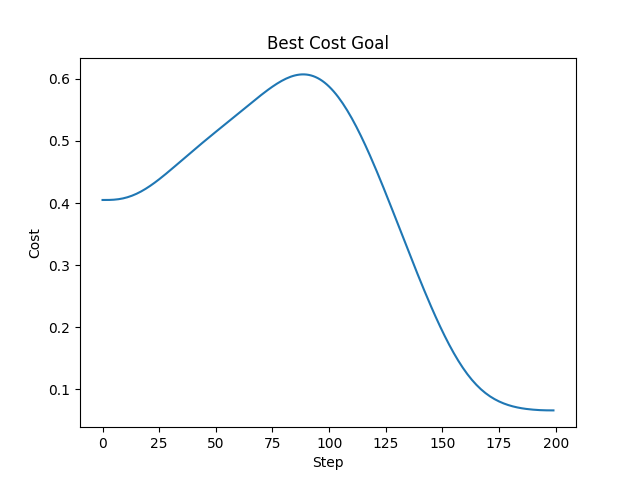
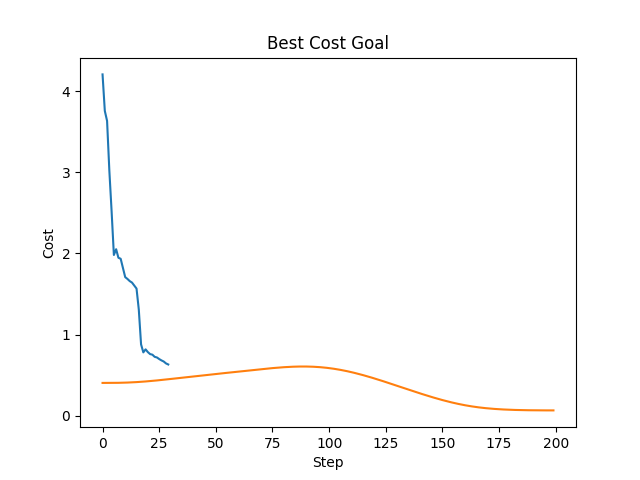
changed rotation to matrix

diff --git a/mjx_planner_v2/view_traj.py b/mjx_planner_v2/view_traj.py
@@ -6,26 +6,42 @@ import numpy as np
 import time
 import jax
 
-def quaternion_to_euler(quaternion):
-    w, x, y, z = quaternion
-    ysqr = y * y
+# def quaternion_to_euler(quaternion):
+#     w, x, y, z = quaternion
+#     ysqr = y * y
 
-    t0 = +2.0 * (w * x + y * z)
-    t1 = +1.0 - 2.0 * (x * x + ysqr)
-    X = np.rad2deg(np.arctan2(t0, t1))
+#     t0 = +2.0 * (w * x + y * z)
+#     t1 = +1.0 - 2.0 * (x * x + ysqr)
+#     X = np.rad2deg(np.arctan2(t0, t1))
 
-    t2 = +2.0 * (w * y - z * x)
+#     t2 = +2.0 * (w * y - z * x)
 
-    t2 = np.clip(t2, a_min=-1.0, a_max=1.0)
-    Y = np.rad2deg(np.arcsin(t2))
+#     t2 = np.clip(t2, a_min=-1.0, a_max=1.0)
+#     Y = np.rad2deg(np.arcsin(t2))
 
-    t3 = +2.0 * (w * z + x * y)
-    t4 = +1.0 - 2.0 * (ysqr + z * z)
-    Z = np.rad2deg(np.arctan2(t3, t4))
+#     t3 = +2.0 * (w * z + x * y)
+#     t4 = +1.0 - 2.0 * (ysqr + z * z)
+#     Z = np.rad2deg(np.arctan2(t3, t4))
 
-    euler = np.round(np.array([X,Y,Z]), 2)
+#     euler = np.round(np.array([X,Y,Z]), 2)
 
-    return euler
+#     return euler
+
+def log_map_rotation_matrix(R):
+    theta = np.arccos(np.clip((np.trace(R) - 1) / 2, -1.0, 1.0))
+    if np.isclose(theta, 0):
+        return np.zeros((3, 3))
+    elif np.isclose(theta, np.pi):
+        w = np.sqrt((np.diag(R) + 1) / 2)
+        w[np.isnan(w)] = 0
+        skew_w = np.array([
+            [0, -w[2], w[1]],
+            [w[2], 0, -w[0]],
+            [-w[1], w[0], 0]
+        ])
+        return np.pi * skew_w
+    else:
+        return (theta / (2 * np.sin(theta))) * (R - R.T)
 
 
 model_path = f"{os.path.dirname(__file__)}/ur5e_hande_mjx/scene.xml" 
@@ -37,9 +53,10 @@ init_joint_state = [1.5, -1.8, 1.75, -1.25, -1.6, 0]
 # init_joint_state = [-1.07386628, -2.21057648, -2.35288999, -1.76991373, -1.09578535, -2.99189036]
 # init_joint_state = [1.3, -0.8, 0, 0, 0, 0]
 data.qpos[:6] = init_joint_state
+# data.ctrl[:6] = init_joint_state
 
-# mjx_model = mjx.put_model(model)
-# mjx_data = mjx.put_data(model, data)
+mjx_model = mjx.put_model(model)
+mjx_data = mjx.put_data(model, data)
 
 # jit_step = jax.jit(mjx.step)
 
@@ -60,13 +77,20 @@ with viewer.launch_passive(model, data) as viewer_:
     while viewer_.is_running():
         step_start = time.time()
         data.qvel[:6] = thetadot[i]
-        # data.qpos[:6] = init_joint_state
+        # data.qpos[:6] = data.ctrl[:6]
 
         # quat_gripper = data.xquat[model.body(name="hande").id]
 
         # qpos = mjx_data.qpos.at[:6].set(data.ctrl[:6])
         # mjx_data = mjx_data.replace(qpos=qpos)
         # mjx_data = jit_step(mjx_model, mjx_data)
+
+        rot_matrix = data.xmat[model.body(name="hande").id].reshape(3,3)
+        print(mjx_data.xmat[model.body(name="hande").id].shape)
+        # rot_matrix = log_map_rotation_matrix(rot_matrix)
+        rot_matrix = np.round(rot_matrix, 1)
+        # rot_matrix = data.xmat[model.body(name="wrist_3_link_1").id].reshape(3,3).T @ rot_matrix
+        print(mjx_data.xmat[model.body(name="hande").id])
 
         mujoco.mj_step(model, data)
         viewer_.sync()
@@ -75,10 +99,10 @@ with viewer.launch_passive(model, data) as viewer_:
         if time_until_next_step > 0:
             time.sleep(time_until_next_step)    
 
-        if i < thetadot.shape[0]-1:
-            i+=1
-        else:
-            data.qvel[:6] = np.zeros(6)
-            data.qpos[:6] = init_joint_state
-            # mjx_data = mjx.put_data(model, data)
-            i=0
+        # if i < thetadot.shape[0]-1:
+        #     i+=1
+        # else:
+        #     data.qvel[:6] = np.zeros(6)
+        #     data.qpos[:6] = init_joint_state
+        #     # mjx_data = mjx.put_data(model, data)
+        #     i=0

diff --git a/mjx_planner_v2/mpc_planner.py b/mjx_planner_v2/mpc_planner.py
@@ -9,14 +9,34 @@ import os
 from mujoco import viewer
 import matplotlib.pyplot as plt
 
+# def update_plot(fig, axs, vels_plot, cost_plot, vels, costs, steps):
+#     for i, joint in enumerate(vels_plot):
+#         joint.set_data(steps, vels[i])
+
+#     cost_plot.set_data(steps, costs)
+
+#     # Set plot limits
+#     # self.ax1.set_xlim([max(0, len(self.time_stamps) - 100), len(self.time_stamps)])
+#     # self.ax2.set_xlim([max(0, len(self.time_stamps) - 100), len(self.time_stamps)])
+
+#     # Draw the updated plot
+#     axs[0].relim()
+#     axs[1].relim()
+#     axs[0].autoscale_view(True, True, True)
+#     axs[1].autoscale_view(True, True, True)
+#     fig.canvas.draw()
+#     fig.canvas.flush_events()
+
 start_time = time.time()
 cem =  cem_planner(
     num_dof=6, 
-    num_batch=100, 
+    num_batch=500, 
     num_steps=10, 
     maxiter_cem=5,
     w_pos=5,
-    num_elite=0.1,
+    w_rot=2,
+    w_col=100,
+    num_elite=0.01,
     timestep=0.04
     )
 print(f"Initialized CEM Planner: {round(time.time()-start_time, 2)}s")
@@ -33,6 +53,28 @@ print(f"Compute CEM: {round(time.time()-start_time, 2)}s")
 
 thetadot = np.array([0]*6)
 
+# plt.ion()
+# fig, axs = plt.subplots(2, 1, figsize=(12, 6))
+# axs[0].set_title('Cost')
+# axs[0].set_ylabel('Cost')
+# axs[1].set_title('Velocities')
+# axs[1].set_ylabel('Velocity')
+# axs[1].set_xlabel('Step')
+
+# vel_plot = [axs[1].plot([], [], label=f'Joint {joint}')[0] for joint in np.arange(1,7)]
+# cost_plot = axs[0].plot([], [])[0]
+
+# axs[0].legend()
+# axs[1].legend()
+
+# vels = list()
+# costs = list()
+# steps = list()
+
+# vels.append(thetadot)
+# costs.append(np.linalg.norm(data.xpos[cem.hande_id] - cem.target_pos))
+# steps.append(len(steps))
+
 with viewer.launch_passive(model, data) as viewer_:
     viewer_.cam.distance = 4
     viewer_.opt.flags[mujoco.mjtVisFlag.mjVIS_CONTACTPOINT] = True
@@ -40,16 +82,21 @@ with viewer.launch_passive(model, data) as viewer_:
     while viewer_.is_running():
         start_time = time.time()
         cost, best_cost_g, best_vels, best_traj, xi_mean = cem.compute_cem(xi_mean, data.qpos[:6], data.qvel[:6])
-        thetadot = best_vels[1]
-
+        thetadot = best_vels[1] 
+        
         data.qvel[:6] = thetadot
         mujoco.mj_step(model, data)
 
-        eef_pos = data.xpos[cem.hande_id]
-        cost_ = np.linalg.norm(eef_pos - cem.target_pos)
-        print(f'Step Time: {round(time.time() - start_time, 2)}s | Cost: {round(float(cost_), 2)}')
+        cost_g = np.linalg.norm(data.xpos[cem.hande_id] - cem.target_pos)   
+        cost_r = np.linalg.norm(data.xmat[cem.hande_id][-3:] - cem.target_rot)  
+        print(f'Step Time: {round(time.time() - start_time, 2)}s | Cost g: {round(float(cost_g), 2)} | Cost r: {round(float(cost_r), 2)}')
 
         viewer_.sync()
+
+        # vels.append(thetadot)
+        # costs.append(cost_)
+        # steps.append(len(steps))
+        # update_plot(fig, axs, vel_plot, cost_plot, np.transpose(vels), costs, steps)
 
         time_until_next_step = model.opt.timestep - (time.time() - start_time)
         if time_until_next_step > 0:

diff --git a/mjx_planner_v2/mjx_planner.py b/mjx_planner_v2/mjx_planner.py
@@ -107,7 +107,7 @@ class cem_planner():
 		object_pos[-1] += 0.3
 		self.target_pos = np.tile(object_pos, (self.num, 1))
 
-		self.target_rot = np.array([180, 0, 0])
+		self.target_rot = np.array([0, 0, -1])
 
 		self.hande_id = self.model.body(name="hande").id
 
@@ -260,11 +260,9 @@ class cem_planner():
 		qvel = mjx_data.qvel.at[:self.num_dof].set(thetadot_single)
 		mjx_data = mjx_data.replace(qvel=qvel)
 		mjx_data = self.jit_step(self.mjx_model, mjx_data)
-		theta = jnp.array(mjx_data.qpos[:self.num_dof])
-		current_position = mjx_data.xpos[self.hande_id]
-		current_rotation = self.quaternion_to_euler(mjx_data.xquat[self.hande_id])
-		eef_pos = jnp.array(current_position)
-		eef_rot = jnp.array(current_rotation)
+		theta = mjx_data.qpos[:self.num_dof]
+		eef_pos = mjx_data.xpos[self.hande_id]
+		eef_rot = mjx_data.xmat[self.hande_id][2]
 		collision = mjx_data.contact.geom[jnp.where(mjx_data.contact.dist<0, size=100, fill_value=self.fill_value)].flatten()
 
 		return mjx_data, (theta, eef_pos, eef_rot, collision)
@@ -283,10 +281,10 @@ class cem_planner():
 	@partial(jax.jit, static_argnums=(0,))
 	def compute_cost_single(self, thetadot, eef_pos, eef_rot, collision):
 		cost_g_ = jnp.linalg.norm(eef_pos - self.target_pos, axis=1)
-		cost_g = cost_g_[-1] + jnp.sum(cost_g_[:-1])*0.001
+		cost_g = cost_g_[-1] + jnp.sum(cost_g_[:-1])*1
 
-		cost_r_ = jnp.linalg.norm(eef_rot[:,:-1] - self.target_rot[:-1], axis=1)
-		cost_r = cost_r_[-1] + jnp.sum(cost_r_[:-1])*0.0001
+		cost_r_ = jnp.linalg.norm(eef_rot - self.target_rot, axis=1)
+		cost_r = cost_r_[-1] + jnp.sum(cost_r_[:-1])*1
 
 		cost_c = jnp.sum(jnp.isin(self.geom_ids, collision))
 

diff --git a/mjx_planner_v2/test.py b/mjx_planner_v2/test.py
@@ -1,17 +1,23 @@
 import numpy as np
-import os
+import matplotlib.pyplot as plt
+from matplotlib.animation import FuncAnimation
 
+# Create the figure and axis
+fig, ax = plt.subplots()
+xdata, ydata = [], []
+line, = ax.plot([], [], 'r-')
 
-xi_mean = np.zeros(6)
-xi_cov = 5*np.identity(6)
+# Initialize the plot
+ax.set_xlim(0, 10)
+ax.set_ylim(-1, 1)
 
-print(xi_mean)
+def update(frame):
+    xdata.append(frame / 10)
+    ydata.append(np.sin(frame / 10 * 2 * np.pi))
+    line.set_data(xdata, ydata)
+    return line,
 
-print(xi_cov)
+# Create the animation
+ani = FuncAnimation(fig, update, frames=range(100), blit=True)
 
-xi_mean_cov = np.vstack((xi_mean, xi_cov))
-
-print(xi_mean_cov)
-
-print(xi_mean_cov[0])
-print(xi_mean_cov[1:])
+plt.show()

diff --git a/mjx_planner_v2/plot.py b/mjx_planner_v2/plot.py
@@ -46,8 +46,9 @@ plt.plot(output_cost)
 plt.title("Output Costs")
 plt.xlabel("Iteration")
 plt.ylabel("Cost")
-plt.savefig(f'{os.path.dirname(__file__)}/plots/output_cost.png')
-plt.clf()
+plt.show()
+# plt.savefig(f'{os.path.dirname(__file__)}/plots/output_cost.png')
+# plt.clf()
 
 plt.plot(best_cost_g)
 plt.title("Best Cost Goal")
